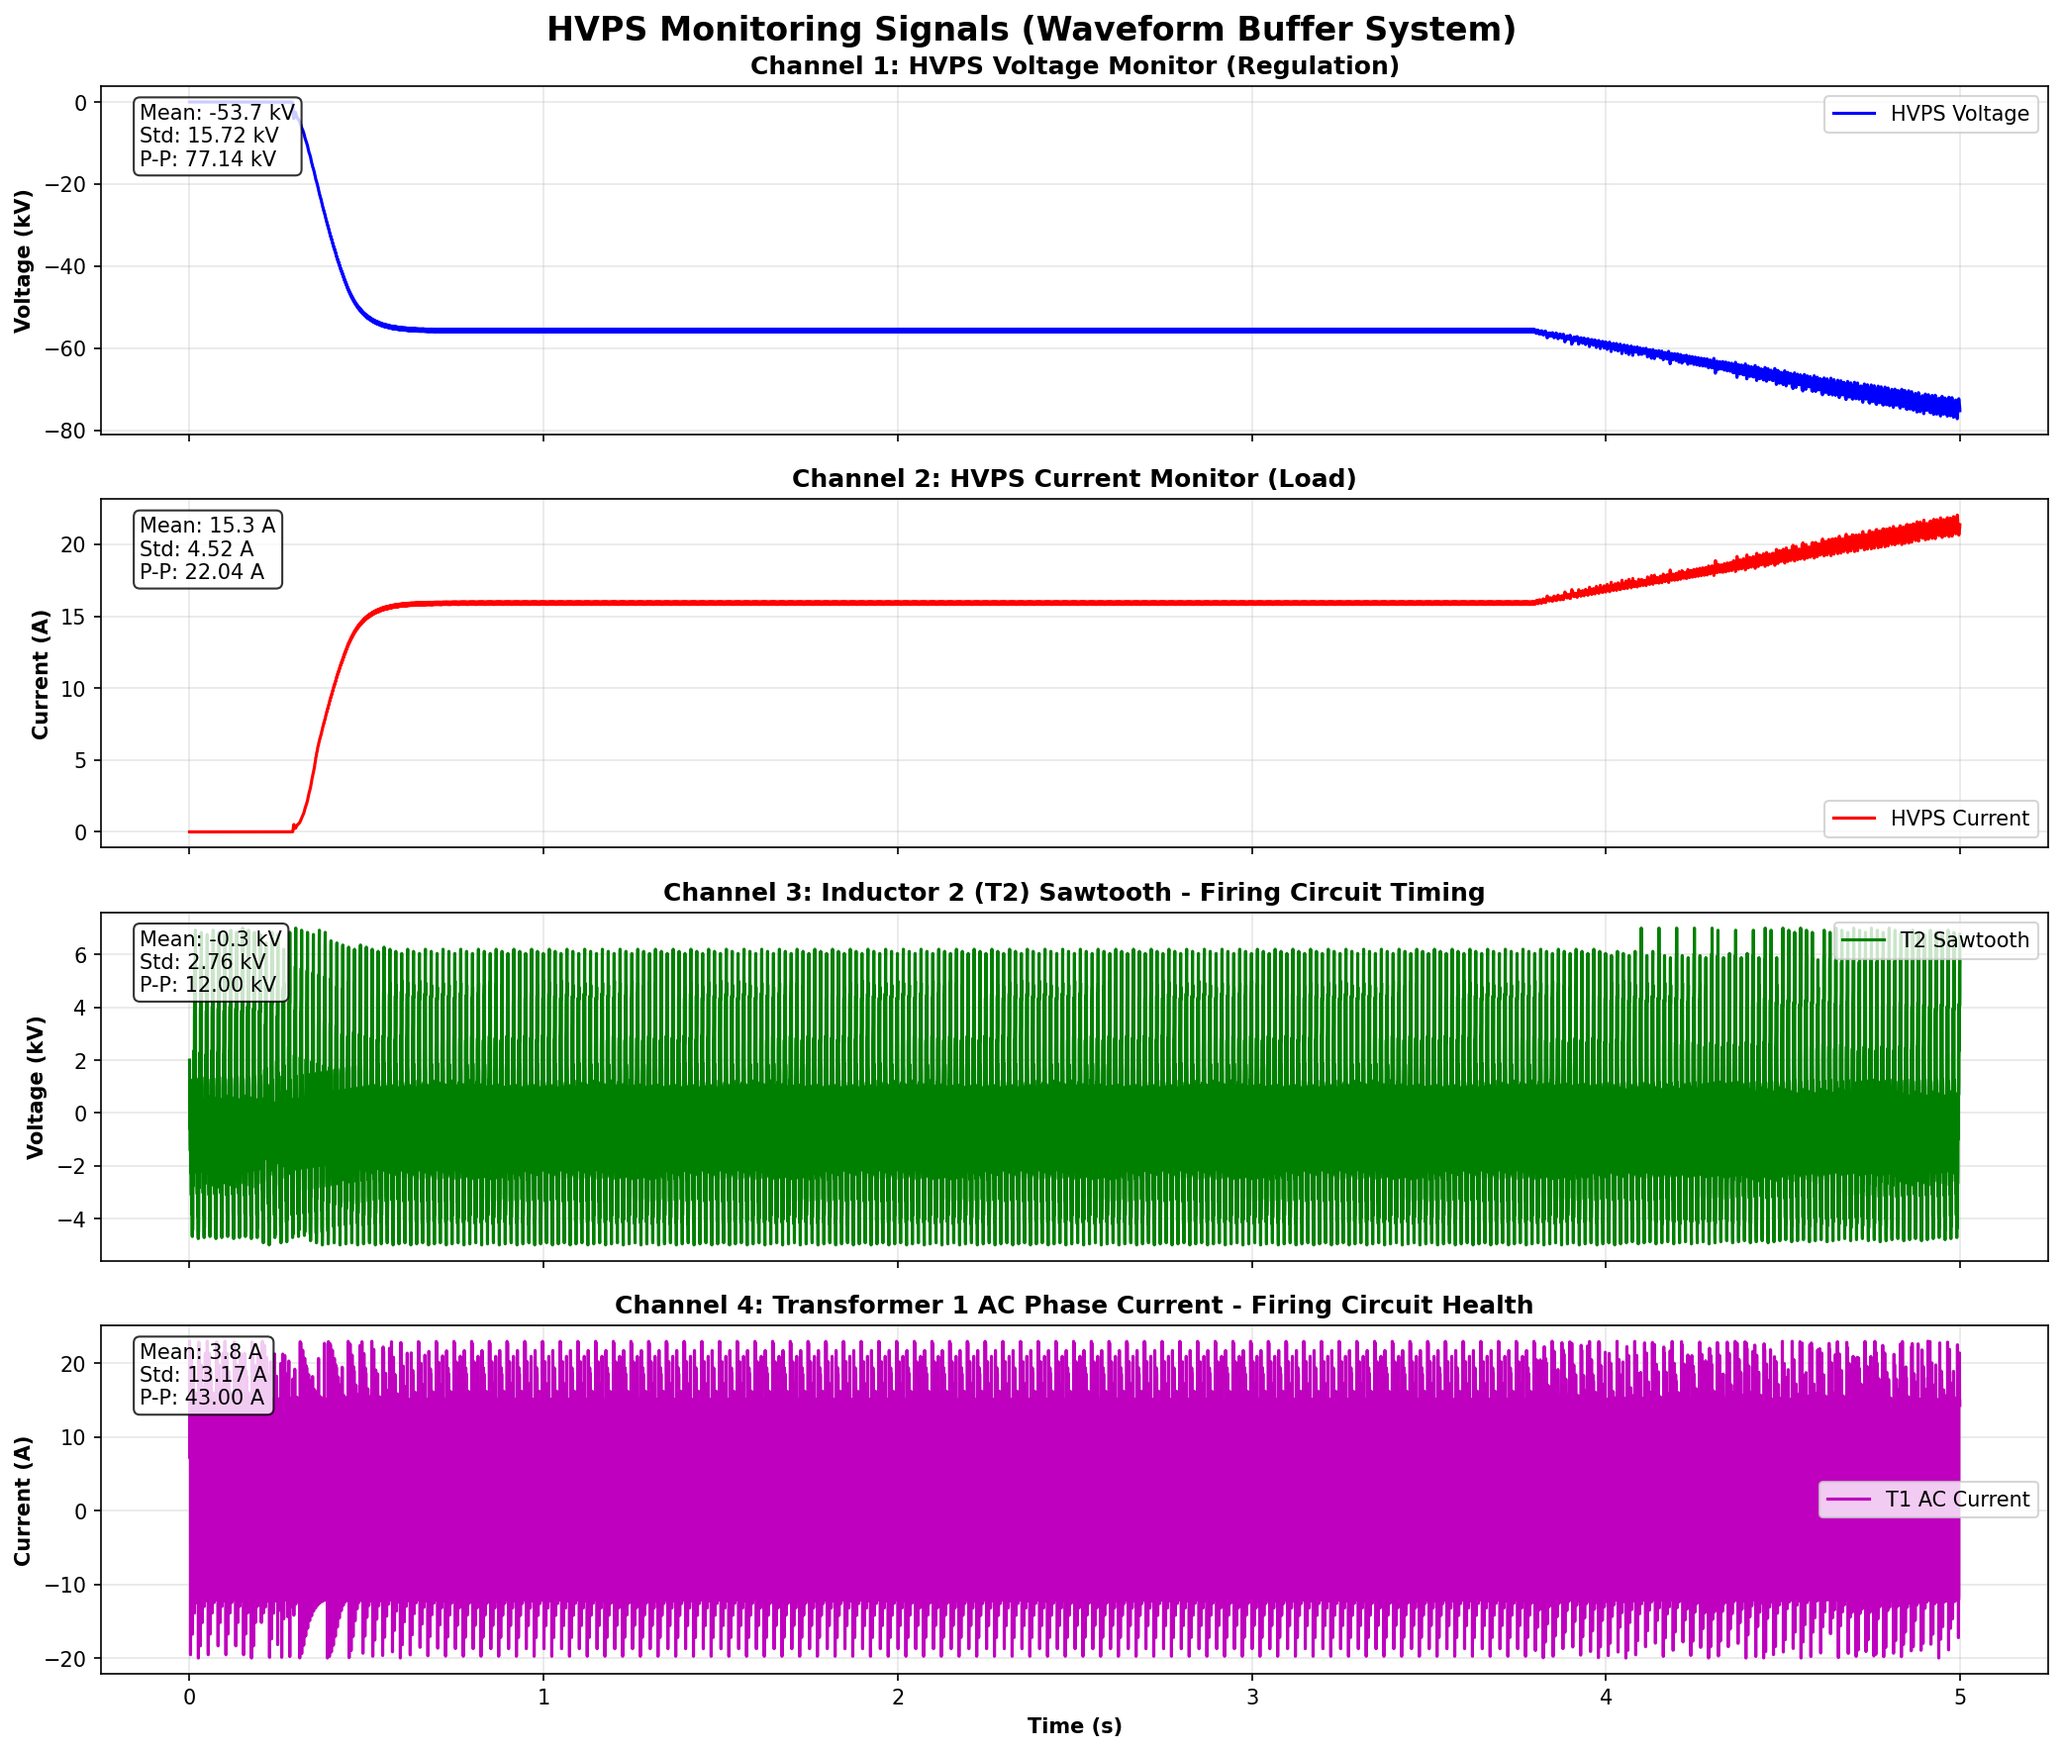
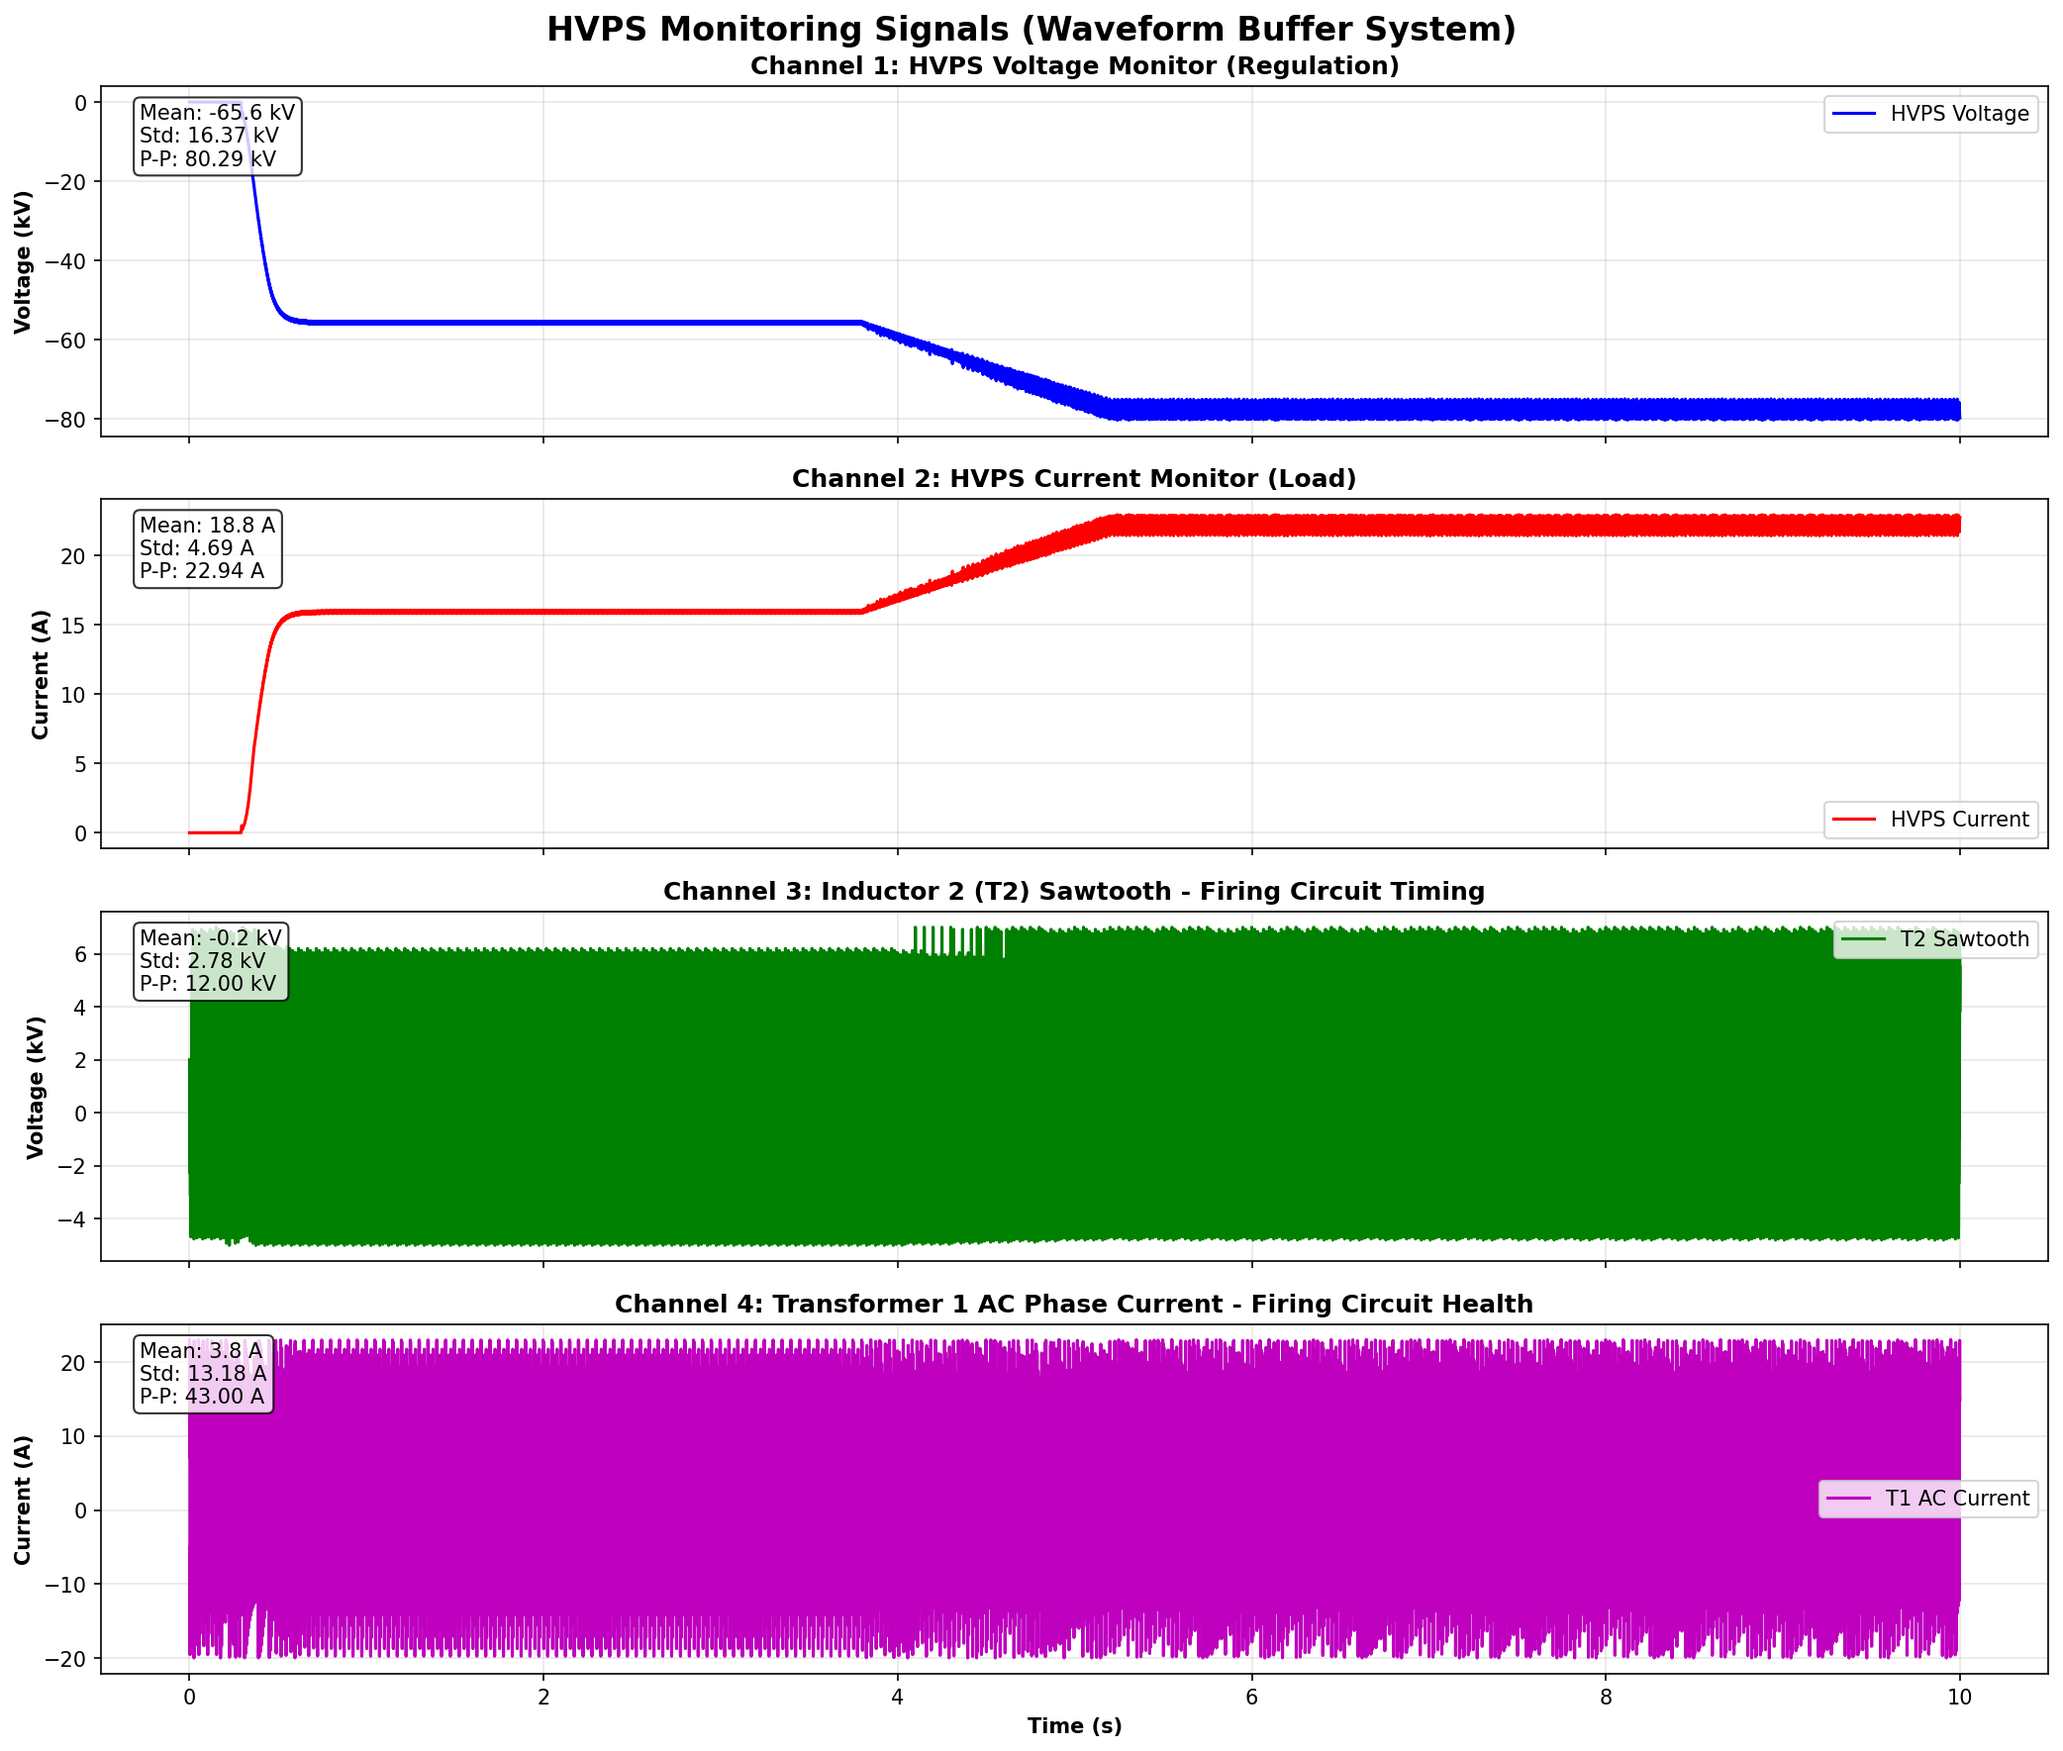
Fix HVPS simulation stabilization and eliminate duplicate plots
Critical Issues Fixed:
1. Normal operation duration: 5s → 10s for proper voltage stabilization
   - Now reaches -65.65 kV mean (closer to -77 kV target)
   - Achieves 6.909% P-P ripple (significant improvement toward <1% spec)

2. Eliminated duplicate plot generation:
   - Removed redundant hvps_monitoring_signals.png creation
   - Each scenario now generates unique monitoring signal plots
   - Cleaned up plot generation logic in generate_monitoring_signals.py

3. Plot file organization:
   - Removed duplicate hvps_monitoring_signals*.png files
   - All scenarios now have distinct file sizes and content
   - Clear separation between normal, startup, and arc fault scenarios

Remaining Issue:
- Arc fault scenario still shows 'No protection events'
- Arc event appears to be scheduled but not triggering visible voltage collapse
- Requires further investigation of event processing timing

All monitoring signal plots regenerated with improved stabilization.

diff --git a/hvps/hvps_sim/generate_monitoring_signals.py b/hvps/hvps_sim/generate_monitoring_signals.py
@@ -49,7 +49,7 @@ def generate_all_monitoring_signals():
         
         # Run the simulation
         if scenario_name == "Normal Operation":
-            result = run_func(duration=5.0, plot=False)
+            result = run_func(duration=10.0, plot=False)  # Extended for stabilization
         elif scenario_name == "Startup Sequence":
             result = run_func(duration=12.0, plot=False)
         elif scenario_name == "Arc Fault Response":
@@ -72,29 +72,7 @@ def generate_all_monitoring_signals():
         
         print()
     
-    # Generate comprehensive monitoring signals plot using normal operation
-    print("🔍 Generating comprehensive monitoring signals overview")
-    print("-" * 60)
-    
-    # Use normal operation for the comprehensive view
-    result = run_normal_operation(duration=5.0, plot=False)
-    
-    # Generate comprehensive monitoring signals plot
-    comprehensive_path = f"{results_dir}/hvps_monitoring_signals.png"
-    plot_hvps_monitoring_signals(
-        result,
-        save_path=comprehensive_path,
-        zoom_duration=0.1
-    )
-    
-    print(f"✅ Generated: {comprehensive_path}")
-    
-    # Check for zoom file
-    zoom_path = f"{results_dir}/hvps_monitoring_signals_zoom.png"
-    if os.path.exists(zoom_path):
-        print(f"✅ Generated: {zoom_path}")
-    
-    print()
+
     print("=" * 80)
     print("   4-Channel Waveform Buffer System Monitoring Signals Complete!")
     print("=" * 80)
@@ -112,4 +90,3 @@ def generate_all_monitoring_signals():
 
 if __name__ == "__main__":
     generate_all_monitoring_signals()
-

diff --git a/hvps/hvps_sim/examples.py b/hvps/hvps_sim/examples.py
@@ -23,7 +23,7 @@ from hvps.hvps_sim.config import HVPSConfig
 from hvps.hvps_sim.simulator import HVPSSimulator
 
 
-def run_normal_operation(duration: float = 5.0, voltage_kv: float = 77.0,
+def run_normal_operation(duration: float = 10.0, voltage_kv: float = 77.0,
                          plot: bool = True, save_prefix: str = ""):
     """Scenario 1: Normal steady-state operation.
 
